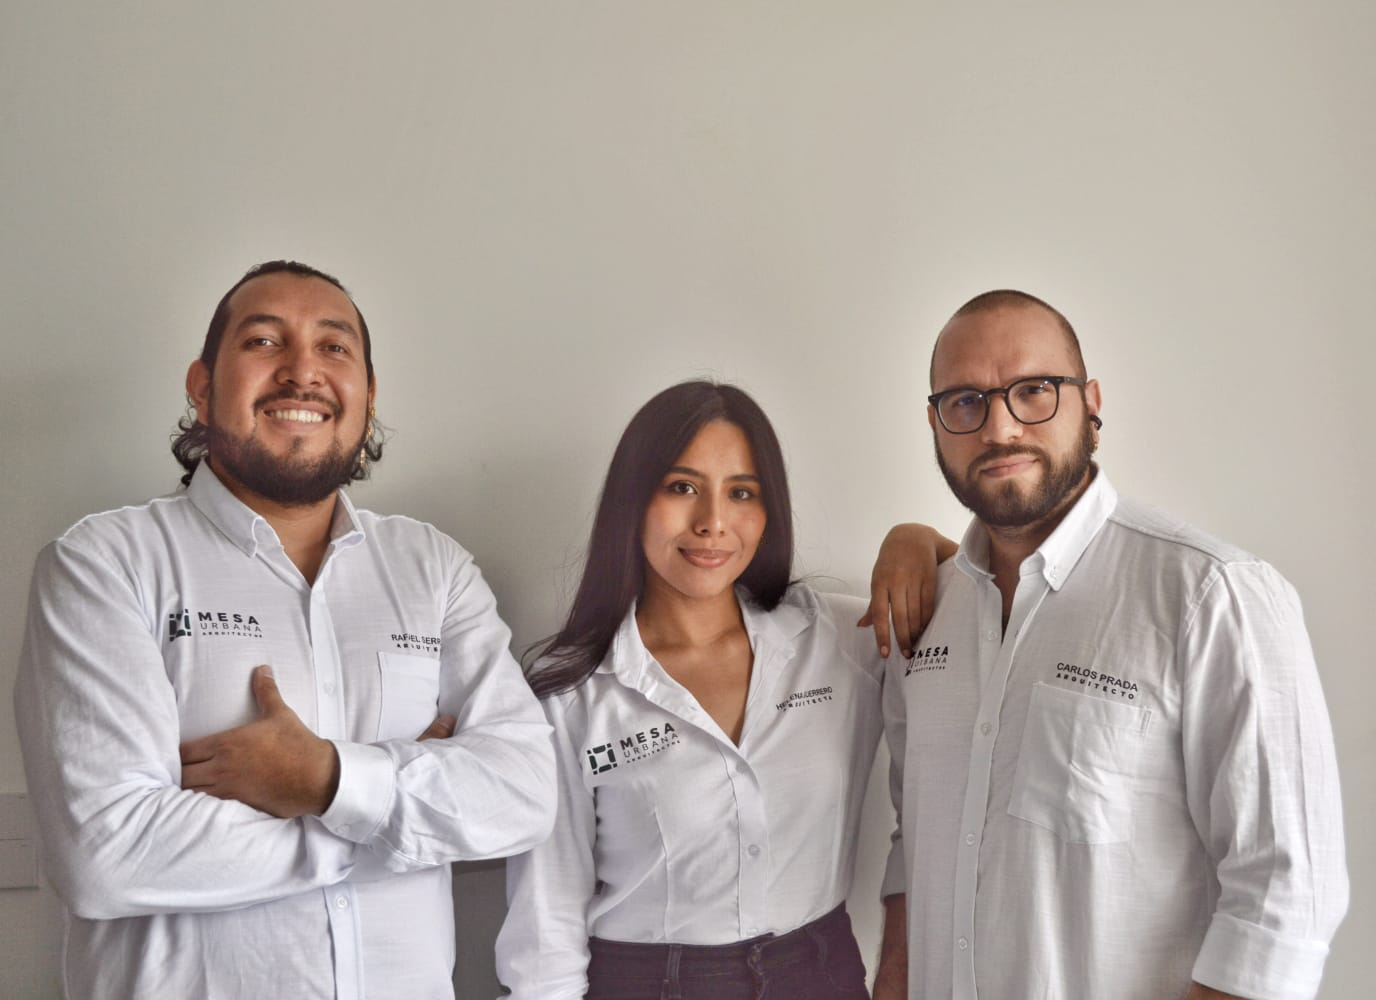
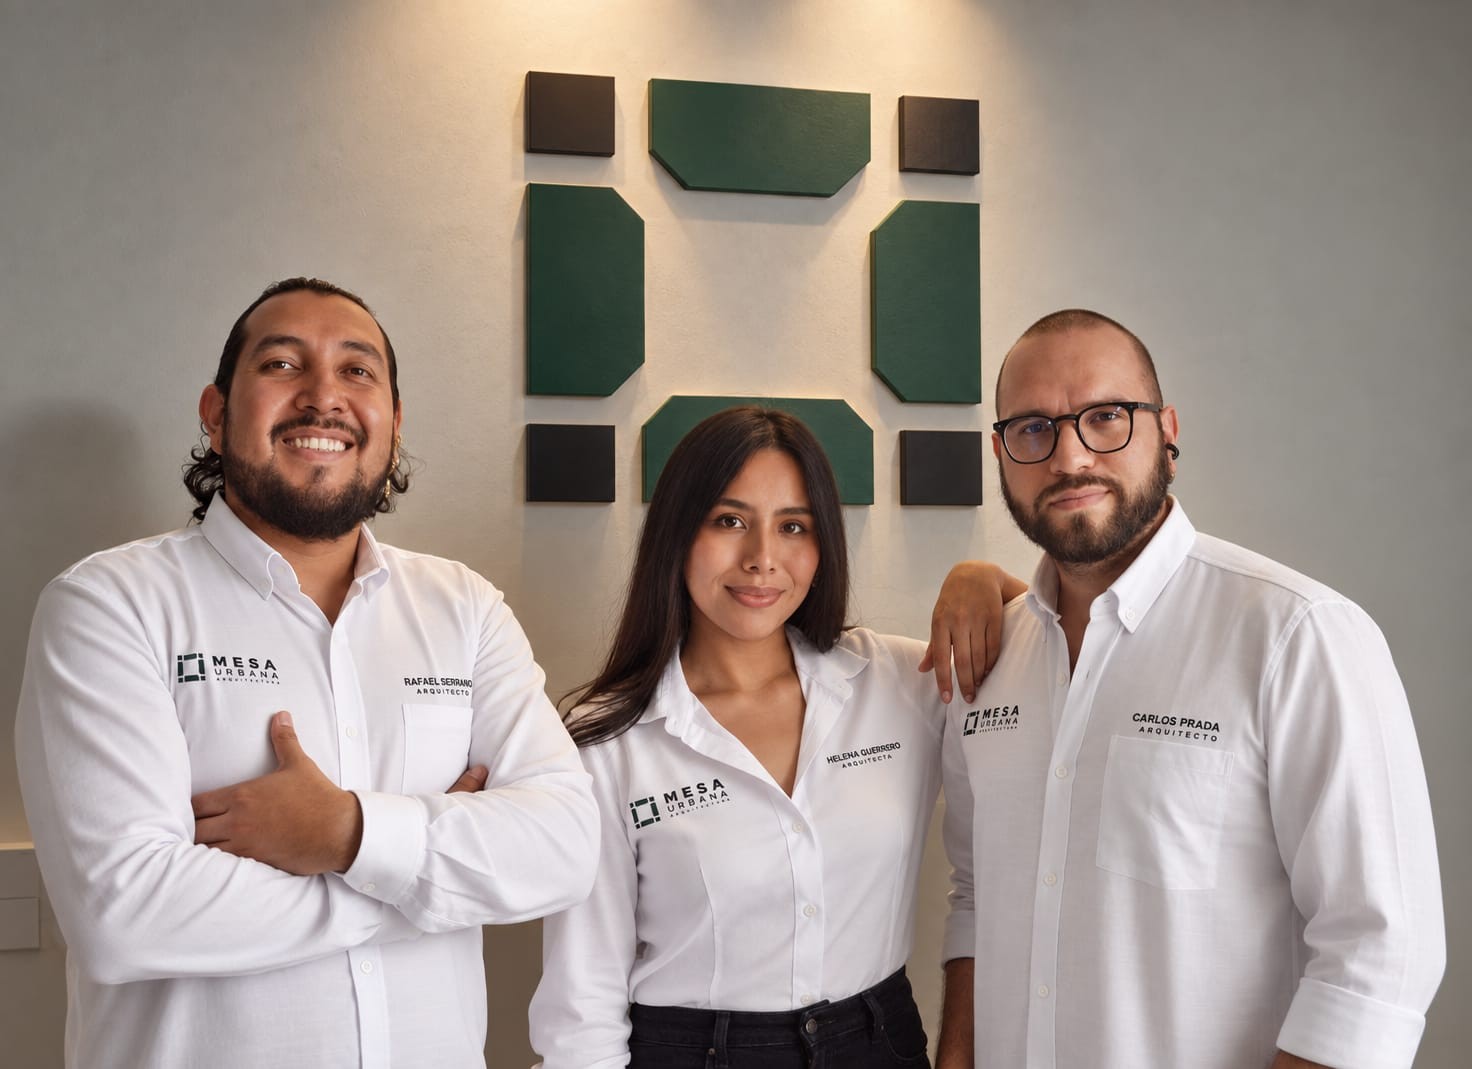
Nueva foto del equipo y dos proyectos mas en el portafolio
- Foto grupal del equipo actualizada (Quienes somos).
- Portafolio: Apto Tempus 49 (5 imagenes) y Oficina Edificio Mar Azul
  (2 imagenes), por ahora solo con titulo.
- Los videos de ambas carpetas quedan fuera del repositorio.

diff --git a/index.html b/index.html
@@ -1067,6 +1067,7 @@
     return arr;
   }
   const projectsData = {
+    'apto-tempus-49': { title: 'Apto Tempus 49', category: '', description: '', images: projectImages('apto-tempus-49', 5) },
     'apto-torreon-santa-ana': { title: 'Apto Torreon Santa Ana', category: '', description: '', images: projectImages('apto-torreon-santa-ana', 6) },
     'banco-finandina': { title: 'Banco Finandina', category: '', description: '', images: projectImages('banco-finandina', 2) },
     'casa-paipa': { title: 'Casa Paipa', category: 'Paipa, Boyacá · 2024 · 180 m²', description: 'Rol: visualización arquitectónica\nVivienda unifamiliar vacacional de 1 piso en parcelación rural. Mostrar el proyecto implantado en el terreno real permitió la aprobación del diseño y la contratación de su ejecución.', images: projectImages('casa-paipa', 6) },
@@ -1074,6 +1075,7 @@
     'edificio-belen-9-31': { title: 'Edificio Belen 9-31', category: '', description: '', images: projectImages('edificio-belen-9-31', 3) },
     'edificio-lmf-80': { title: 'Edificio LMF 80', category: '', description: '', images: projectImages('edificio-lmf-80', 11) },
     'hospital-villa-rica': { title: 'Hospital Villa Rica', category: '', description: '', images: projectImages('hospital-villa-rica', 4) },
+    'oficina-edificio-mar-azul': { title: 'Oficina Edificio Mar Azul', category: '', description: '', images: projectImages('oficina-edificio-mar-azul', 2) },
     'oficina-ingenieria-sas': { title: 'Oficina Ingenieria SAS', category: '', description: '', images: projectImages('oficina-ingenieria-sas', 4) },
     'oficina-ricardo-serrano': { title: 'Oficina Ricardo Serrano', category: '', description: '', images: projectImages('oficina-ricardo-serrano', 3) },
     'oficina-t-seis-arquitectos': { title: 'Oficina T Seis Arquitectos', category: '', description: '', images: projectImages('oficina-t-seis-arquitectos', 3) },
